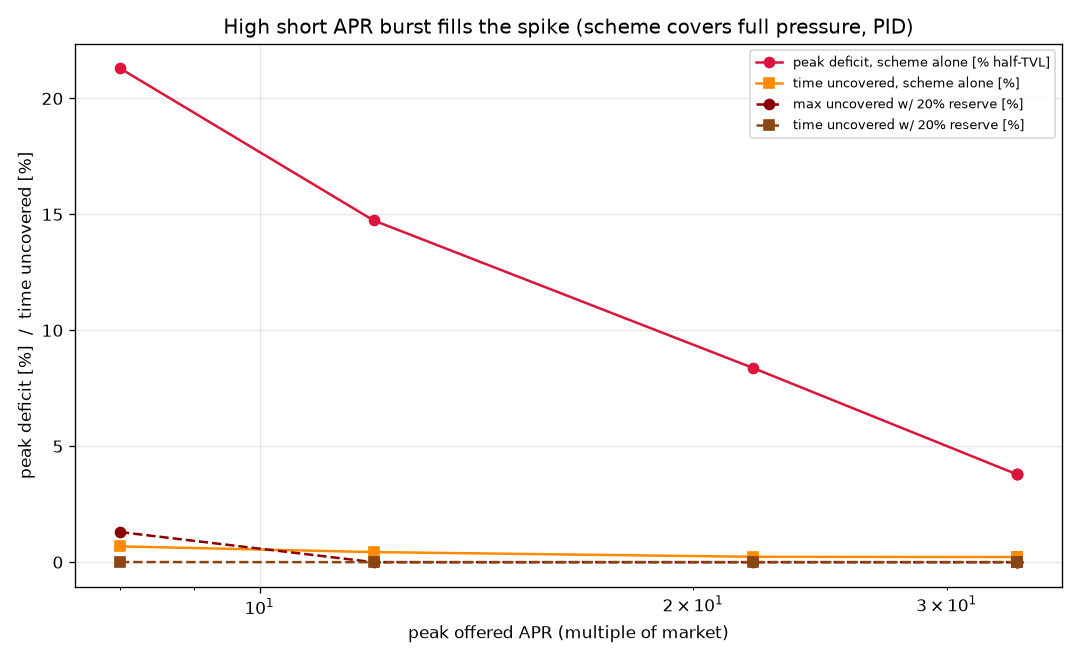
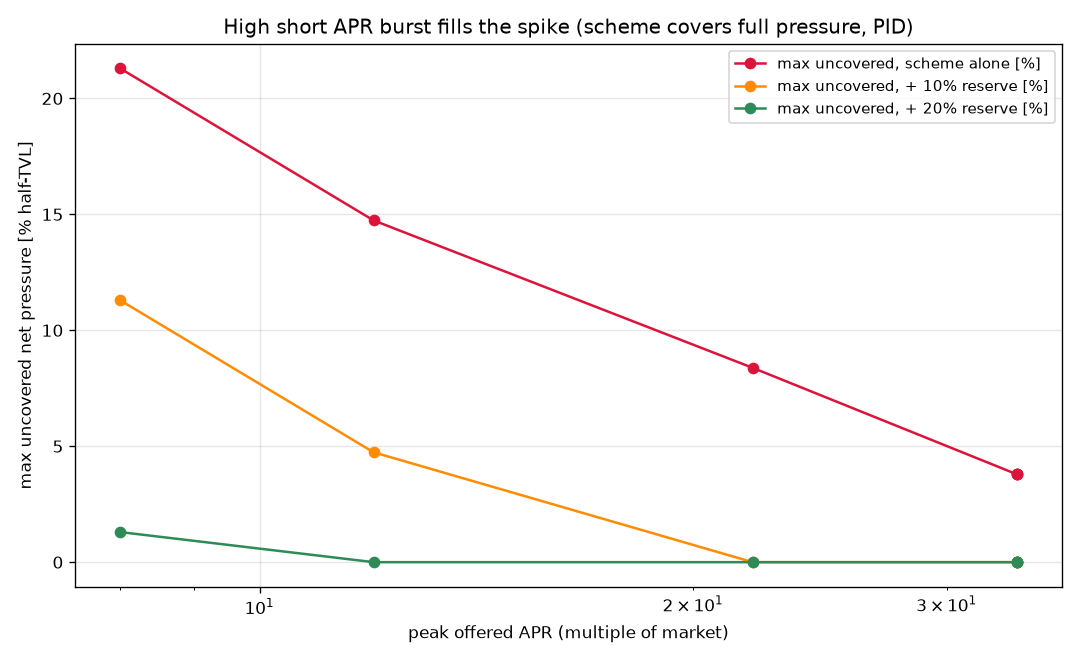
Add 10% reserve case to burst sweep comparison
sweep-scap now evaluates the credited reserve at 0/10/20% in one pass and
plots all three. With the scheme sized for full pressure, full coverage of
the worst crash needs ~12x burst at 20% reserve, ~22x at 10%, while 0%
reserve floors at 3.8%. Coverage degrades gracefully as the reserve shrinks
rather than collapsing.

diff --git a/rates/incentive_sim.py b/rates/incentive_sim.py
@@ -312,52 +312,55 @@ def compare_controllers(grid, P, m, dt_year, ctrls=("pi", "pid"), beta=BETA,
     return sims
 
 
-def sweep_scap(P, m, dt_year, ctrl_name, scaps, beta=BETA, lam=1.0, eval_reserve=0.0):
+def sweep_scap(P, m, dt_year, ctrl_name, scaps, beta=BETA, lam=1.0,
+               eval_reserves=(0.0, 0.10, 0.20)):
     """Re-optimise while raising the offer cap (SCAP): how high an APR burst is
     needed to fill the sharp spike, and how much peak deficit it buys back.
 
-    eval_reserve (e.g. 0.20) is credited only at evaluation as extra capacity on
-    top of the scheme — the controller still covers the full pressure itself."""
+    Each reserve in `eval_reserves` (e.g. 0.10, 0.20) is credited only at
+    evaluation as extra capacity on top of the scheme — the controller still covers
+    the full pressure itself, so coverage doesn't depend on the reserve size. For a
+    peak deficit `d`, the max uncovered with reserve `r` is max(0, d − r); the time
+    uncovered needs the full series, so we compute both here per reserve."""
     names, _, _ = CONTROLLERS[ctrl_name]
     rows = []
     for sc in scaps:
         params, _ = optimize(P, m, dt_year, ctrl_name, lam=lam, beta=beta, scap=sc)
         sim = simulate(P, m, dt_year, ctrl_name, [params[k] for k in names],
                        beta=beta, scap=sc)
-        mt = metrics(P, m, dt_year, sim, lam=lam, eval_reserve=eval_reserve)
+        mt = metrics(P, m, dt_year, sim, lam=lam)
+        deficit = np.clip(P - sim["S"], 0.0, None)
+        mt["res"] = {}   # reserve -> (max_uncovered, frac_time_uncovered)
+        for r in eval_reserves:
+            dres = np.clip(deficit - r, 0.0, None)
+            mt["res"][r] = (float(dres.max()), float(np.mean(dres > 0.01)))
         mt["scap"] = sc
         rows.append(mt)
-        extra = (f"  | w/{eval_reserve*100:.0f}%-reserve: "
-                 f"max_uncov={mt['peak_deficit_res']*100:5.2f}%  "
-                 f"time={mt['frac_uncov_res']*100:.2f}%") if eval_reserve > 0 else ""
-        print(f"  scap={sc:5.1f}  peak_deficit={mt['peak_deficit']*100:5.2f}%  "
-              f"uncovered={mt['frac_uncov']*100:5.2f}% of time  "
-              f"peak_APR={mt['peak_x']:5.1f}x  "
-              f"spend={mt['spend_pa']*100:.4f}%/yr" + extra)
+        cols = "  ".join(f"r{int(r*100):02d}: {mt['res'][r][0]*100:5.2f}%/"
+                         f"{mt['res'][r][1]*100:.2f}%t" for r in eval_reserves)
+        print(f"  scap={sc:5.1f}  peak_APR={mt['peak_x']:5.1f}x  "
+              f"spend={mt['spend_pa']*100:.4f}%/yr  | max_uncov/time @ reserve  {cols}")
     return rows
 
 
-def plot_scap(rows, eval_reserve=0.0, save=None):
+def plot_scap(rows, eval_reserves=(0.0, 0.10, 0.20), save=None):
     import matplotlib
     matplotlib.use("Agg" if save else "QtAgg")
     import matplotlib.pyplot as plt
     px = [r["peak_x"] for r in rows]
+    colors = {0.0: "crimson", 0.10: "darkorange", 0.20: "seagreen"}
     fig, ax = plt.subplots(figsize=(9, 5.5))
-    ax.plot(px, [r["peak_deficit"] * 100 for r in rows], "o-", color="crimson",
-            label="peak deficit, scheme alone [% half-TVL]")
-    ax.plot(px, [r["frac_uncov"] * 100 for r in rows], "s-", color="darkorange",
-            label="time uncovered, scheme alone [%]")
-    if eval_reserve > 0:
-        ax.plot(px, [r["peak_deficit_res"] * 100 for r in rows], "o--", color="darkred",
-                label=f"max uncovered w/ {eval_reserve*100:.0f}% reserve [%]")
-        ax.plot(px, [r["frac_uncov_res"] * 100 for r in rows], "s--", color="saddlebrown",
-                label=f"time uncovered w/ {eval_reserve*100:.0f}% reserve [%]")
+    for rv in eval_reserves:
+        c = colors.get(rv, "gray")
+        lbl = "scheme alone" if rv == 0 else f"+ {rv*100:.0f}% reserve"
+        ax.plot(px, [r["res"][rv][0] * 100 for r in rows], "o-", color=c,
+                label=f"max uncovered, {lbl} [%]")
     ax.set_xlabel("peak offered APR (multiple of market)")
-    ax.set_ylabel("peak deficit [%]  /  time uncovered [%]")
+    ax.set_ylabel("max uncovered net pressure [% half-TVL]")
     ax.set_xscale("log")
     ax.grid(alpha=0.3)
     ax.set_title("High short APR burst fills the spike (scheme covers full pressure, PID)")
-    ax.legend(loc="upper right", fontsize=8)
+    ax.legend(loc="upper right", fontsize=9)
     fig.tight_layout()
     if save:
         fig.savefig(save, dpi=120); print(f"saved {save}")
@@ -496,8 +499,8 @@ def main():
         scaps = [3.0, 5.0, 10.0, 20.0, 40.0, 80.0]
         print(f"sweeping offer cap (scap) for [{args.controller}] controller:")
         rows = sweep_scap(P, m, dt_year, args.controller, scaps,
-                          beta=args.beta, lam=args.lam, eval_reserve=args.eval_reserve)
-        plot_scap(rows, eval_reserve=args.eval_reserve, save=args.save)
+                          beta=args.beta, lam=args.lam)
+        plot_scap(rows, save=args.save)
         return
     if args.optimize:
         params, J = optimize(P, m, dt_year, args.controller, lam=args.lam,
@@ -514,10 +517,13 @@ def main():
     print("params:", dict(zip(names, params)))
 
     sim = simulate(P, m, dt_year, args.controller, params, beta=args.beta, scap=args.scap)
-    mets = metrics(P, m, dt_year, sim, lam=args.lam)
+    mets = metrics(P, m, dt_year, sim, lam=args.lam, eval_reserve=args.eval_reserve)
     print(f"coverage      : {mets['coverage']*100:.2f}%")
     print(f"peak deficit  : {mets['peak_deficit']*100:.2f}% of half-TVL")
     print(f"time uncovered: {mets['frac_uncov']*100:.2f}% (deficit > 1% half-TVL)")
+    if args.eval_reserve > 0:
+        print(f"  w/{args.eval_reserve*100:.0f}% reserve: max uncovered "
+              f"{mets['peak_deficit_res']*100:.2f}%, time {mets['frac_uncov_res']*100:.2f}%")
     print(f"spend         : {mets['spend_pa']*100:.4f}%/yr of half-TVL  (total {mets['spend']:.4g})")
     print(f"offer (x)     : mean {mets['mean_x_active']:.2f}x active, peak {mets['peak_x']:.1f}x "
           f"(active {mets['frac_active']*100:.1f}% of time)")

diff --git a/rates/REPORT_incentive_sim.md b/rates/REPORT_incentive_sim.md
@@ -163,25 +163,32 @@ on how big the reserve actually is. Raising the offer cap and re-optimising the 
 
 ![burst fills the spike](pics/incentive_scap_sweep.png)
 
-| peak offered APR | peak deficit, scheme alone | spend %/yr | **max uncovered w/ 20% reserve** | time uncovered w/ reserve |
-|-----------------:|---------------------------:|-----------:|---------------------------------:|--------------------------:|
-| 8×  | 21.3% | 0.114% | 1.30% | ~0% |
-| 12× | 14.7% | 0.119% | **0.00%** | 0% |
-| 22× | 8.4%  | 0.126% | 0.00% | 0% |
-| 34× | 3.8%  | 0.128% | 0.00% | 0% |
+Max uncovered net pressure (% of half-TVL), and time uncovered, for three reserve
+levels credited on top of the scheme:
 
-1. **The scheme alone fills the spike with a burst.** Peak deficit collapses
+| peak offered APR | spend %/yr | 0% reserve (scheme alone) | + 10% reserve | + 20% reserve |
+|-----------------:|-----------:|--------------------------:|--------------:|--------------:|
+| 8×  | 0.114% | 21.3%  (0.68% of time) | 11.3% (0.08%) | 1.3% (~0%) |
+| 12× | 0.119% | 14.7%  (0.43%) | 4.7% (0.01%) | **0.0%** |
+| 22× | 0.126% | 8.4%   (0.23%) | **0.0%** | 0.0% |
+| 34× | 0.128% | 3.8%   (0.22%) | 0.0% | 0.0% |
+
+1. **The scheme alone fills the spike with a burst.** Max uncovered collapses
    21→3.8% as the offer goes 8→34×, while **spend rises only 0.114→0.128%/yr** of
    half-TVL — a high APR paid on a small, briefly-growing sink for a few hours is
    cheap. (Raising the offer cap reduces *scheme-alone* uncovered *time* ~3× for
    ~0.014%/yr extra — the "remarkable" trade.)
-2. **With the 20% reserve as insurance on top, the worst crash is fully covered.**
-   At just **12×** the max net pressure left uncovered over the whole 2.4-year run
-   (incl. 2024-08-05) is **0.0%**; even at 8× it is 1.30% at a single peak hour
-   (~0% of the time). Because the scheme is sized for the full pressure, this does
-   **not** depend on the reserve being exactly 20% — the reserve is pure margin.
-3. **Affordability.** 0.1–0.2%/yr of half-TVL is a price worth paying to make
-   coverage independent of the reserve's size — extra insurance, not a dependency.
+2. **A reserve on top closes the rest, and bigger reserve ⇒ smaller burst needed.**
+   With **20%** the worst crash in the 2.4-year run (incl. 2024-08-05) is fully
+   covered at just **12×** (1.3% at 8×). With **10%** you need ~**22×** to reach
+   full coverage (11.3% / 4.7% left at 8× / 12×). With **0%** the scheme never
+   quite closes the instantaneous tip (3.8% floor at 34×). So the reserve and the
+   burst-height trade off against each other.
+3. **Robust to reserve size.** Because the scheme is sized for the full pressure,
+   coverage degrades *gracefully* as the reserve shrinks (20→10→0%) rather than
+   collapsing — the reserve is margin, not a dependency.
+4. **Affordability.** 0.1–0.2%/yr of half-TVL is a price worth paying to make
+   coverage largely independent of the reserve's size — extra insurance.
 
 Two caveats:
 